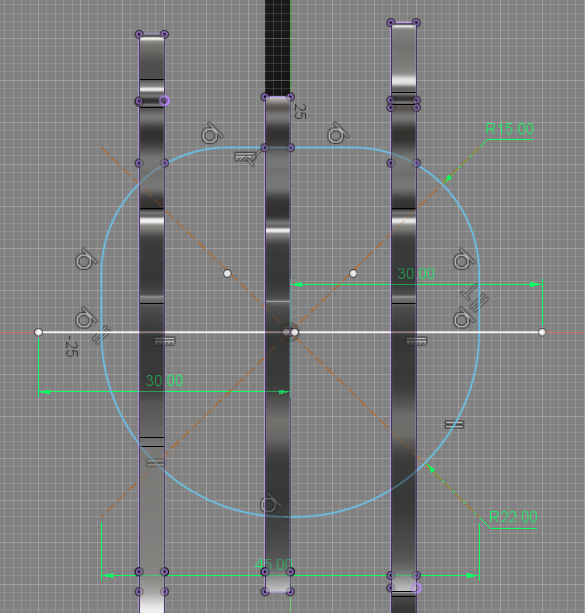
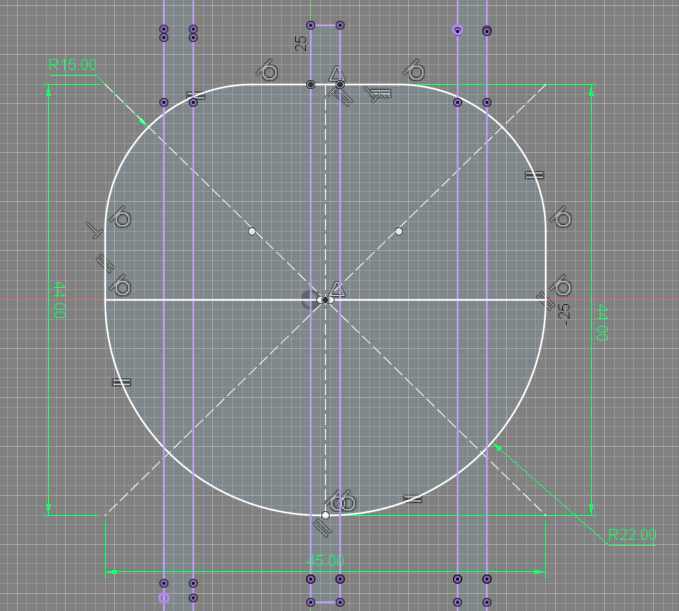
fotos y partes

diff --git a/docs/tecnicos/mt03.md b/docs/tecnicos/mt03.md
@@ -63,3 +63,23 @@ Ahora que tenemos los 3 planos principales del cuerpo, debemos generar un mínim
 A partir de esa vértebra, la duplicamos y disponemos acorde a la forma del objeto, tratando de obtener un resultado homogéneo en ambas secciones.
 
 ![](../images/MT03/gatoconunaydosvertebras.png)
+
+Aplicamos "Appearance" dando texturas de MDF y el quemado del láser a las caras laterales.
+
+![](../images/MT03/gatocontexturasmdfs.png)
+
+Utilizamos Illustrator para generar los números con "Outlines" que luego exportaremos como SVG, para importar a un "Sketch" del Fusion 360 y obtener los contornos de las línas de la manera deseada.
+
+![](../images/MT03/numeroillusysvg.png)
+
+Aplicamos números en cada una de las piezas para facilitar el armado
+
+![](../images/MT03/armadogato.png)
+
+Como podemos ver en las siguientes imágenes, el diseño se adapta con éxito al modificar los parámetros para diferentes valores de espesor de material.
+
+![](../images/MT03/gato4espesores.png)
+
+Incluimos una base para optimizar la estabilidad del producto y también agregarle un rótulo con grabado y marcado.
+
+![](../images/MT03/basegrabadoymarcado.png)
